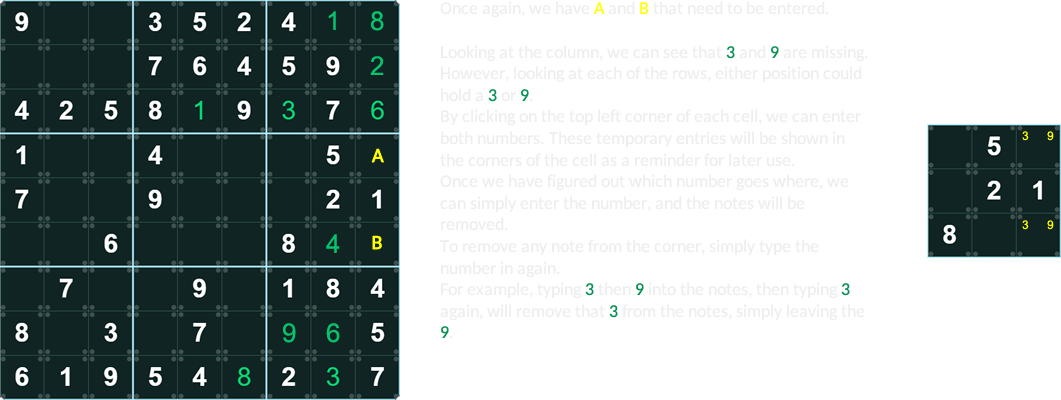
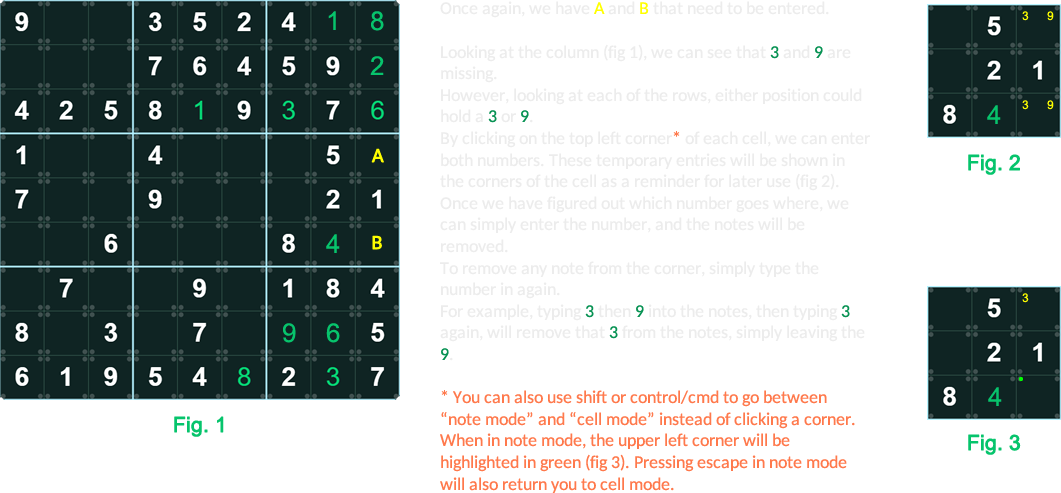
Help Menu + Help + Note Entry Keys + Fireworks GL
You can switch between note mode and cell mode using shift/ctrl.

Help menu updated to mention the ability to switch between note mode and cell mode using shit/ctrl.

Help screen now shows green corner dot when entering notes.

Updated help to move the buttons outside the main container. Allows me to make the button band 100% width of the screen (with no borders).

Added Fireworks GL for machines that have it available.

diff --git a/js/main.js b/js/main.js
@@ -3,7 +3,11 @@
     TO DO LIST
 */
 var vars = {
-    version: '1.9.6',
+    // version 2 just needs me to 
+    //     1.99a - update the help pages to show the new way to enter notes
+    //     1.99b - the notes for any saved bonus game should also be saved and loaded when needed
+    //     2.1: I'd also like the current game to be saved
+    version: '1.9.8',
     DEBUG: false,
     currentGameDifficulty: '',
     gameWon: false,
@@ -466,35 +470,8 @@ var vars = {
         vars.initKeyboardEventListeners();
         vars.initMouseEventListeners();
 
-        // initialise the fireworks class
-        vars.classFireworks = new Fireworks('fwCanvas', {
-            rocketMinSpeed: 7,
-            rocketMaxSpeed: 10,
-            gravity: 0.18,
-            particleCount: 160,
-            particleLife: 70,
-            spawnInterval: 1000,
-        });
-
-
-        vars.fireworksGL.class = new FireworksShader(document.getElementById('fireworksShaderCanvas'));
-        let FWGL = vars.fireworksGL.class;
-        if (FWGL.ERROR) {
-            switch (FWGL.ERROR) {
-                case 'NOWEBGL': // we dont have to do anything else here. the browser doesnt support webgl
-                    vars.fireworksGL.supported = false;
-                    vars.fireworksGL.class = null;
-                    // remove fireworksShaderContainer from the DOM - tested in console as all my browsers support webgl. try statement added for safety
-                    try {
-                        document.getElementById('fireworksShaderContainer').remove();
-                    } catch(e) {};
-                break;
-
-                default:
-                    console.error(`Unknown error initialising FireworksShader: ${FWGL.ERROR}`);
-                break;
-            };
-        };
+        // initialise the fireworks classes
+        vars.initFireworkClasses();
 
         difficultySelect.addEventListener('change', (d) => {
             d = d.target;
@@ -713,6 +690,37 @@ var vars = {
         });
     },
 
+    initFireworkClasses: ()=> {
+        vars.classFireworks = new Fireworks('fwCanvas', {
+            rocketMinSpeed: 7,
+            rocketMaxSpeed: 10,
+            gravity: 0.18,
+            particleCount: 160,
+            particleLife: 70,
+            spawnInterval: 1000,
+        });
+
+
+        vars.fireworksGL.class = new FireworksShader(document.getElementById('fireworksShaderCanvas'));
+        let FWGL = vars.fireworksGL.class;
+        if (FWGL.ERROR) {
+            switch (FWGL.ERROR) {
+                case 'NOWEBGL': // we dont have to do anything else here. the browser doesnt support webgl
+                    vars.fireworksGL.supported = false;
+                    vars.fireworksGL.class = null;
+                    // remove fireworksShaderContainer from the DOM - tested in console as all my browsers support webgl. try statement added for safety
+                    try {
+                        document.getElementById('fireworksShaderContainer').remove();
+                    } catch(e) {};
+                break;
+
+                default:
+                    console.error(`Unknown error initialising FireworksShader: ${FWGL.ERROR}`);
+                break;
+            };
+        };
+    },
+
     initKeyboardEventListeners: ()=> {
         window.addEventListener('keydown', (e) => {
             if (vars.gameWon) return;
@@ -725,7 +733,7 @@ var vars = {
                     else notes[r][c].add(n);
                     vars.draw();
                 };
-                if (e.key === 'Escape') { noteMode = null; }
+                if (e.key === 'Escape' || e.key === 'Shift' || e.key === 'Control') { noteMode = null; vars.draw(); }
                 return;
             };
 
@@ -768,8 +776,15 @@ var vars = {
                 vars.selected.c = (vars.selected.c + 1) % 9;
                 selInfo.textContent = `r${vars.selected.r + 1} c${vars.selected.c + 1}`;
                 vars.draw(); 
+            } else if (e.key === 'Shift' || e.key === 'Control') {
+                if (noteMode === null) {
+                    if (vars.selected.r === -1) return;
+
+                    noteMode = { r: vars.selected.r, c: vars.selected.c, corner: 1 };
+                    vars.draw();
+                };
             };
-            
+
             if (resetBadArray) {
                 vars.bad = [];
                 vars.draw();
@@ -1116,14 +1131,18 @@ var vars = {
                     ctx.font = `${Math.floor(cellPx * 0.22)}px sans-serif`;
                     const offsets = [[-0.65, -0.65], [0.65, -0.65], [-0.65, 0.65], [0.65, 0.65]];
                     let idx = 0;
-                    for (const val of notes[r][c]) {
+                    [...notes[r][c]].sort().forEach((val) => {
                         const ox = offsets[idx % 4][0] * cellPx * 0.4;
                         const oy = offsets[idx % 4][1] * cellPx * 0.4;
                         ctx.fillText(String(val), x + cellPx / 2 + ox, y + cellPx / 2 + oy);
                         idx++;
-                    };
+                    });
                 };
                 // Draw clickable corner highlights (light circles)
+                ctx.fillStyle = 'rgba(0, 255, 0, 0.5)';
+                if (noteMode && noteMode.r===r && noteMode.c===c) {
+                    ctx.beginPath(); ctx.arc(x + 6, y + 6, 4, 0, Math.PI * 2); ctx.fill();
+                };
                 ctx.fillStyle = 'rgba(255, 255, 255, 0.2)';
                 ctx.beginPath(); ctx.arc(x + 6, y + 6, 4, 0, Math.PI * 2); ctx.fill();
                 ctx.beginPath(); ctx.arc(x + cellPx - 6, y + 6, 4, 0, Math.PI * 2); ctx.fill();
@@ -2007,7 +2026,7 @@ const canvas = document.getElementById('board');
 const ctx = canvas.getContext('2d');
 const cellPx = canvas.width / vars.cellWidth;
 
-// build a puzzle
+// build the empty puzzle grids
 vars.initial = vars.makeEmptyGrid();
 let puzzle = vars.makeEmptyGrid();
 let solution = vars.makeEmptyGrid();

diff --git a/index.html b/index.html
@@ -178,14 +178,15 @@
     </div>
 
     <div id="helpContainer">
-        <div id="helpInnerContainer">
-            <div id="helpButtons">
-                <div class="helpButton" data-help-show="0" onclick="vars.help.showPage(0)">INPUT</div>
-                <div class="helpButton" data-help-show="1" onclick="vars.help.showPage(1)">EXAMPLE</div>
-                <div class="helpButton" data-help-show="2" onclick="vars.help.showPage(2)">ADDING NOTES</div>
-                <div class="helpButton" data-help-show="3" onclick="vars.help.showPage(3)">HINT SYSTEM</div>
-                <div class="helpButton closeHelpButton"    onclick="vars.showHelpContainer(false)">CLOSE</div>
-            </div>
+        <div id="helpButtons">
+            <div class="helpButton" data-help-show="0" onclick="vars.help.showPage(0)">INPUT</div>
+            <div class="helpButton" data-help-show="1" onclick="vars.help.showPage(1)">EXAMPLE</div>
+            <div class="helpButton" data-help-show="2" onclick="vars.help.showPage(2)">ADDING NOTES</div>
+            <div class="helpButton" data-help-show="3" onclick="vars.help.showPage(3)">HINT SYSTEM</div>
+            <div class="helpButton closeHelpButton"    onclick="vars.showHelpContainer(false)">CLOSE</div>
+        </div>
+
+        <div id="helpInnerContainer">    
             <div class="helpPage" data-help-page="0">
                 <div><img src="./images/help/help_keys.png"></div>
             </div>

diff --git a/css/main.css b/css/main.css
@@ -343,8 +343,9 @@ button {
     column-gap: 20px;
     display: flex;
     justify-content: space-evenly;
-    margin-bottom: 32px;
+    margin: 32px 0;
     padding: 20px;
+    width: 100%;
 }
 
 #helpContainer {
@@ -358,7 +359,7 @@ button {
     height: 100vh;
     margin: 0;
     padding: 0;
-    transform: translateX(100vw);
+    transform: translateX(150vw);
     width: 100vw;
     z-index: 10;
 }
